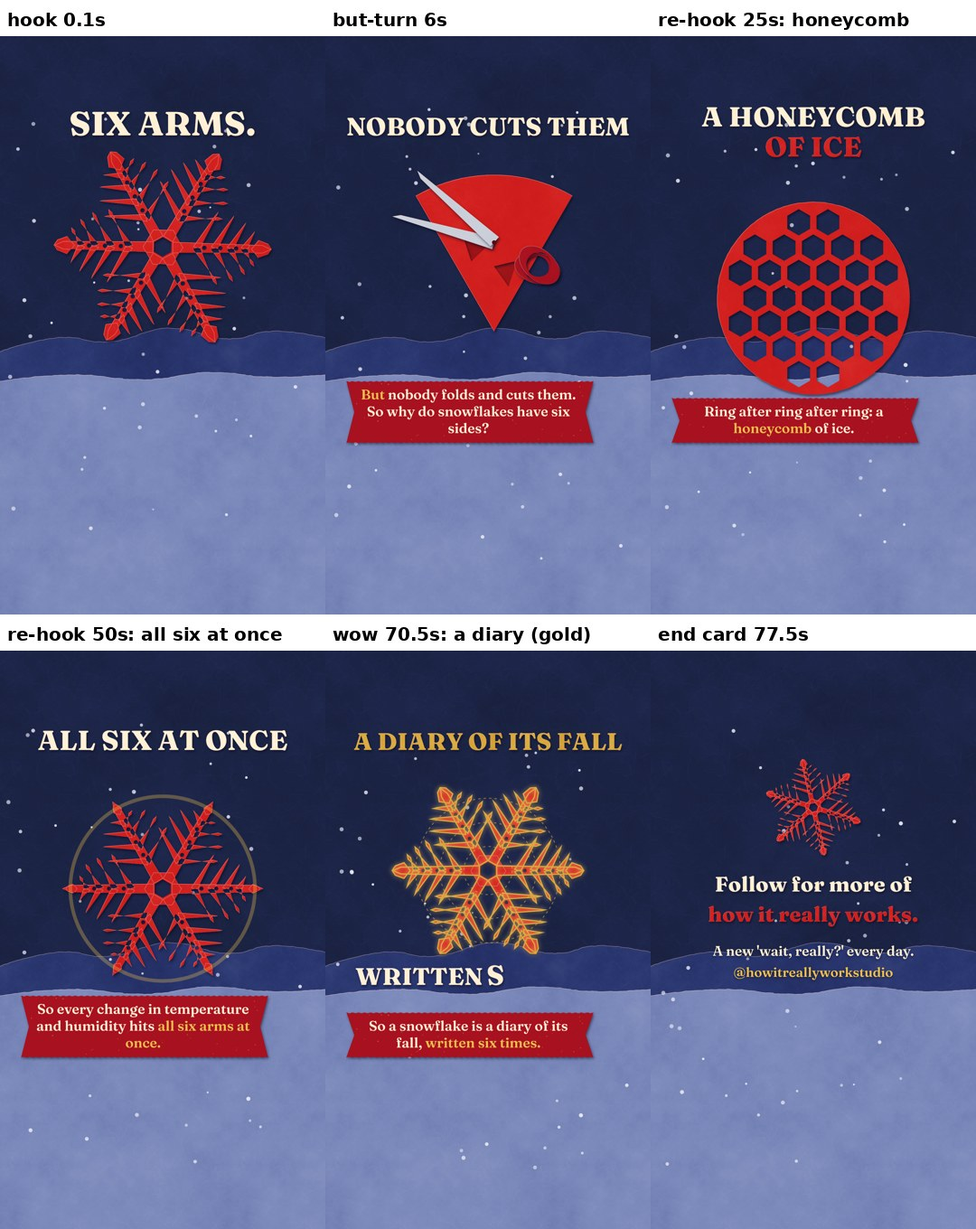
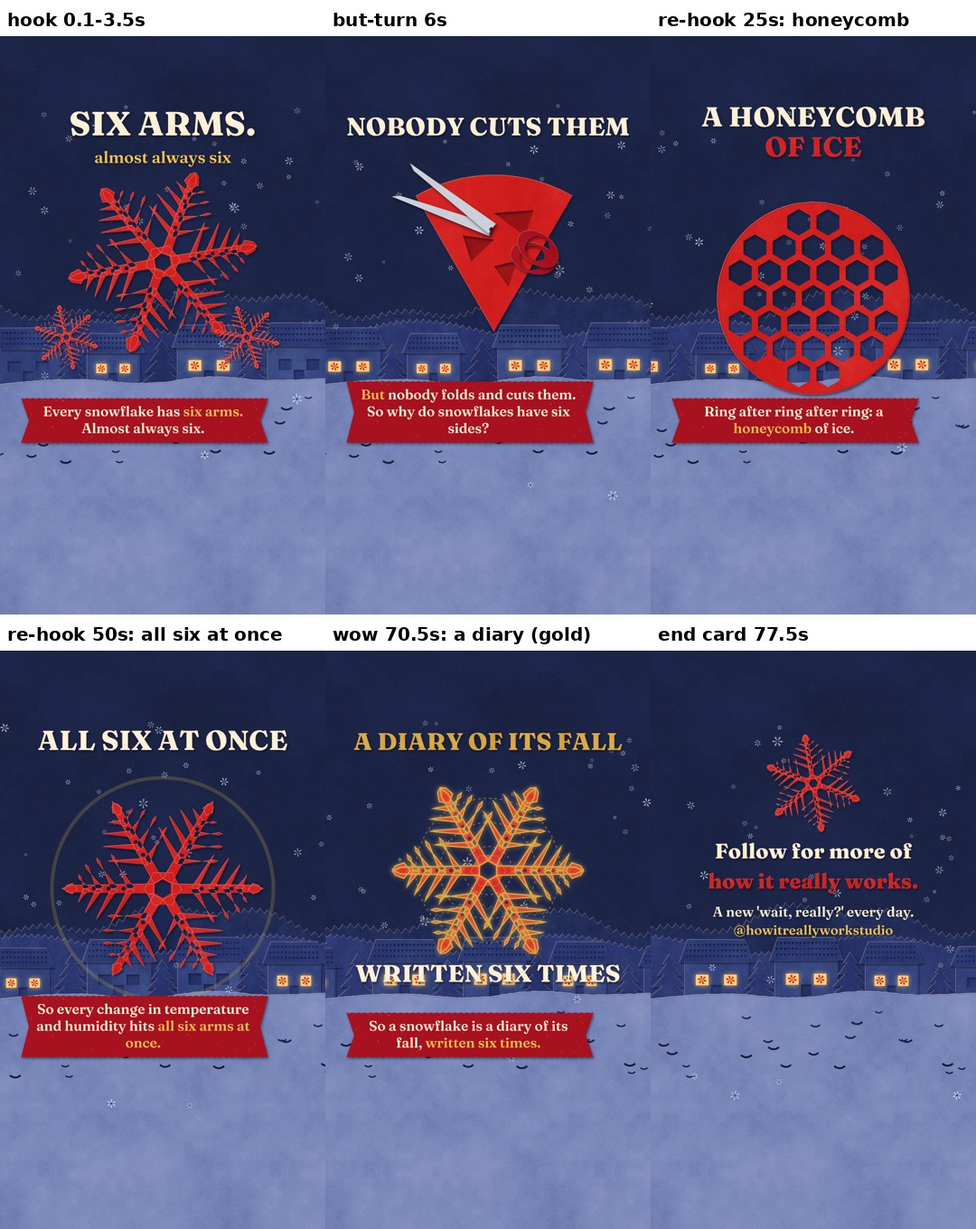
snowflake: demo layering (sawtooth hills, cut-paper village, crescent snow, parallax flakes, insets), accurate hook; runnynose: body sends extra blood, WHY THE DRIP? hook caption, crayon fillers
Claude-Session: https://claude.ai/code/session_01BPYB3nfqh6HEjZ42pf9qga

diff --git a/reels/t_snowflake.js b/reels/t_snowflake.js
@@ -23,7 +23,9 @@ function paper(pathFn, col, o = {}) {      // draw one paper piece (pathFn build
   Lg.beginPath(); pathFn(Lg); Lg.fillStyle = col; Lg.fill(o.rule || 'nonzero');
   // grain: soft-light, clipped to the piece so empty canvas stays empty
   GR.setTransform(new DOMMatrix([1, 0, 0, 1, (o.seed || 0) * 131 % 768, (o.seed || 0) * 71 % 768]));
-  Lg.save(); Lg.beginPath(); pathFn(Lg); Lg.clip(o.rule || 'nonzero'); Lg.globalCompositeOperation = 'soft-light'; Lg.globalAlpha = .7; Lg.fillStyle = GR; Lg.fillRect(0, 0, W, H); Lg.restore();
+  Lg.save(); Lg.beginPath(); pathFn(Lg); Lg.clip(o.rule || 'nonzero'); Lg.globalCompositeOperation = 'soft-light'; Lg.globalAlpha = 1; Lg.fillStyle = GR; Lg.fillRect(0, 0, W, H); Lg.restore();
+  if (o.inset) { const [ins, gap] = o.inset; Lg.save(); Lg.beginPath(); pathFn(Lg); Lg.clip(o.rule || 'nonzero'); Lg.lineJoin = 'round'; Lg.globalCompositeOperation = 'destination-out'; Lg.lineWidth = 2 * (ins + gap); Lg.beginPath(); pathFn(Lg); Lg.stroke();
+    Lg.globalCompositeOperation = 'source-over'; Lg.strokeStyle = col; Lg.lineWidth = 2 * ins; Lg.beginPath(); pathFn(Lg); Lg.stroke(); Lg.restore(); }
   if (o.holes) { Lg.globalCompositeOperation = 'destination-out'; Lg.beginPath(); o.holes(Lg); Lg.fillStyle = '#000'; Lg.fill(); }
   // cut-edge rim: a light line up-left, a dark line down-right
   Lg.globalCompositeOperation = 'source-atop'; Lg.lineWidth = 2; Lg.strokeStyle = 'rgba(255,200,180,.35)'; Lg.save(); Lg.translate(1, 1); Lg.beginPath(); pathFn(Lg); Lg.stroke(); Lg.restore();
@@ -61,13 +63,39 @@ function flake(x, y, R, o = {}) {   // o: n arms, grow, rot, col, plate, seed, a
 }
 
 // ---------- background: night-indigo paper, far hills, a snow bank, stepping paper snow ----------
+// ---------- background (demo layering): night paper, two sawtooth hill layers, a cut-paper village row (tiled roofs cut as sawtooth
+// rows, glowing windows with tiny red rosettes, pines), a snow layer with crescent cuts, paper flakes on three depths; each layer pans
+// at its own rate (parallax), and the lit windows change from scene to scene ----------
+const SAW = (x0, x1, yf, h, sp) => { const o = []; for (let x = x0, i = 0; x <= x1; x += sp / 2, i++) o.push([x, yf(x) - (i % 2) * h]); return o; };
+function house(x, base, w, h, k, lit) { const roofH = h * .55, top = base - h;
+  paper(q => { q.rect(x, top, w, h); }, '#35457f', { seed: 200 + k, shadow: .7, inset: [3, 1.4], holes: q => { if (!lit) { q.rect(x + w * .18, top + h * .3, w * .2, h * .26); q.rect(x + w * .62, top + h * .3, w * .2, h * .26); } q.rect(x + w * .42, top + h * .55, w * .16, h * .45); } });
+  if (lit) for (const fx of [.18, .62]) { const wx = x + w * fx, wy = top + h * .3, ww = w * .2, wh = h * .26; g.save(); g.fillStyle = '#ffcf7a'; g.shadowColor = 'rgba(255,190,110,.8)'; g.shadowBlur = 18; g.fillRect(wx, wy, ww, wh); g.restore();
+    g.fillStyle = PAL.red; g.beginPath(); for (let j = 0; j < 6; j++) { const a = j * TAU / 6, cx = wx + ww / 2, cy = wy + wh / 2; g.moveTo(cx, cy); g.arc(cx, cy, Math.min(ww, wh) * .38, a, a + .5); } g.fill(); }
+  const roof = [[x - 18, top], [x + w + 18, top], [x + w - 10, top - roofH], [x + 10, top - roofH]];
+  paper(poly(wob(roof.concat([roof[0]]), .6, 210 + k)), '#2c3a74', { seed: 211 + k, shadow: .8, holes: q => { for (let r2 = 1; r2 <= 3; r2++) { const yy = top - roofH * r2 / 4; for (let xx = x + 4; xx < x + w - 4; xx += 13) { q.moveTo(xx, yy - 3); q.lineTo(xx + 9, yy - 3); q.lineTo(xx + 4.5, yy + 6); q.closePath(); } } } }); }
+function pine(x, base, h, k) { const pts = [[x, base - h]]; for (let j = 1; j <= 4; j++) { const y = base - h + h * j / 4.4, wdt = h * .1 * j + 8; pts.push([x + wdt, y], [x + wdt * .45, y - 4]); } const L2 = pts.slice(1).map(([a, b]) => [2 * x - a, b]).reverse();
+  paper(poly(wob(pts.concat([[x + 10, base], [x - 10, base]], L2), .5, 230 + k)), '#28346c', { seed: 231 + k, shadow: .7 }); }
+function flakeDot(x, y, r, a = 1) { g.save(); g.globalAlpha = a; g.fillStyle = SNOW; g.beginPath(); for (let j = 0; j < 6; j++) { const an = j * TAU / 6 + x * .01; g.moveTo(x, y); g.lineTo(x + Math.cos(an - .18) * r, y + Math.sin(an - .18) * r); g.lineTo(x + Math.cos(an) * r * 1.2, y + Math.sin(an) * r * 1.2); g.lineTo(x + Math.cos(an + .18) * r, y + Math.sin(an + .18) * r); g.closePath(); } g.fill();
+  g.fillStyle = '#1c2446'; g.beginPath(); g.arc(x, y, r * .28, 0, TAU); g.fill(); g.restore(); }
+function snowLayer(t, depth, n, size, seed) { const q = step(t); for (let i = 0; i < n; i++) { const sp = (28 + 30 * rnd(i, seed)) * depth, y = 230 + ((rnd(i, seed + 1) * 1300 + q * sp * 2) % 1300), x = ((rnd(i, seed + 2) * 1200 - q * 6 * depth + 18 * Math.sin(q * .9 + i)) % 1200 + 1200) % 1200 - 60;
+  flakeDot(x, y, size * (.7 + .5 * rnd(i, seed + 3)), .5 + .45 * rnd(i, seed + 4)); } }
+let SCENE = 0;
 function ground(t, tint = 0) { g.setTransform(1, 0, 0, 1, 0, 0); fillPaper(g, 'indigo', 0, 0, W, H);
   if (tint) { g.fillStyle = `rgba(120,40,60,${tint})`; g.fillRect(0, 0, W, H); }
-  paper(poly(wob(curve([[-40, 1060], [180, 980], [360, 1030], [560, 950], [760, 1020], [920, 960], [1120, 1010]], false, 6), 1.2, 3).concat([[1120, 1240], [-40, 1240]])), '#29356e', { shadow: .6, seed: 4 });
-  paper(poly(wob(curve([[-40, 1150], [220, 1110], [480, 1150], [700, 1105], [900, 1140], [1120, 1120]], false, 6), 1.2, 5).concat([[1120, 1960], [-40, 1960]])), '#7a88ba', { shadow: .8, seed: 6 });
-  const q = step(t); g.fillStyle = SNOW;
-  for (let i = 0; i < 40; i++) { const sp = 50 + 60 * rnd(i, 2), y = 240 + ((rnd(i, 3) * 1500 + q * sp) % 1500), x = 30 + rnd(i, 4) * 1020 + 14 * Math.sin(q * 1.1 + i), r = 3 + 4 * rnd(i, 5);
-    g.globalAlpha = .55 + .4 * rnd(i, 6); g.beginPath(); g.arc(x, y, r, 0, TAU); g.fill(); } g.globalAlpha = 1; }
+  const pan = t * 9;
+  snowLayer(t, .45, 26, 7, 11);                                                                              // far flakes
+  const p1 = pan * .3, p2 = pan * .55, p3 = pan * 1;
+  paper(poly(wob(SAW(-60, 1140, x => 900 + 40 * Math.sin((x + p1) * .006) + 20 * Math.sin((x + p1) * .017), 16, 26), .6, 3).concat([[1140, 1300], [-60, 1300]])), '#1f2a55', { seed: 4, shadow: .5 });
+  paper(poly(wob(SAW(-60, 1140, x => 980 + 30 * Math.sin((x + p2) * .008 + 2), 12, 22), .6, 5).concat([[1140, 1300], [-60, 1300]])), '#29356e', { seed: 5, shadow: .6 });
+  // village row (repeats along an endless street; house k = index along the street)
+  const sp = 300, base = 1172, i0 = Math.floor((p2 * 1.3 - 200) / sp);
+  for (let i = i0; i < i0 + 6; i++) { const x = i * sp - p2 * 1.3, k = ((i % 97) + 97) % 97, w = 170 + 50 * rnd(k, 1), h = 110 + 60 * rnd(k, 2);
+    pine(x - 40, base, 120 + 60 * rnd(k, 3), k); house(x + 10, base, w, h, k, rnd(k, 5 + SCENE) > .35); }
+  snowLayer(t, .8, 18, 10, 23);                                                                              // middle flakes
+  paper(poly(wob(curve([[-40, 1160], [220, 1128], [480, 1160], [700, 1122], [900, 1150], [1120, 1132]], false, 6), 1.2, 6).concat([[1120, 1960], [-40, 1960]])), '#7a88ba', { seed: 6, shadow: 1, inset: [3, 1.4],
+    holes: q => { for (let i = 0; i < 26; i++) { const x = ((rnd(i, 31) * 1300 - p3 * .4) % 1300 + 1300) % 1300 - 110, y = 1200 + rnd(i, 32) * 230, r = 18 + 10 * rnd(i, 33); const pts = []; for (let j = 0; j <= 10; j++) { const a = .25 * Math.PI + .5 * Math.PI * j / 10; pts.push([x + Math.cos(a) * r, y - r + Math.sin(a) * r]); } for (let j = 10; j >= 0; j--) { const a = .25 * Math.PI + .5 * Math.PI * j / 10; pts.push([x + Math.cos(a) * r * .8, y - r * 1.04 + Math.sin(a) * r * .82]); } trace(q, pts); } } });
+  snowLayer(t, 1.2, 10, 13, 37);                                                                             // near flakes
+}
 
 // ---------- cut-out titles: letters pop in one per 12 fps step ----------
 function title(str, x, y, size, k, col = PAL.red, o = {}) { if (k < 0) return; const q = step(k), shown = Math.floor(q * 24) + 1; g.save(); g.setTransform(1, 0, 0, 1, 0, 0);
@@ -84,7 +112,7 @@ function tag(str, x, y, k, col = PAL.red, txt = CREAM, w = 210) { const u = popK
 // ---------- molecules (cut paper), hydrogen bonds (rows of slits) ----------
 function molecule(x, y, r, ang = 0, k = 1, seed = 1) { const u = popK(k); if (u <= 0) return; const R = r * u, hr = R * .56, d = R * 1.05, a1 = ang + Math.PI / 2 - .91, a2 = ang + Math.PI / 2 + .91;
   paper(q => { trace(q, circ(x, y, R, seed)); trace(q, circ(x + Math.cos(a1) * d, y + Math.sin(a1) * d, hr, seed + 1)); trace(q, circ(x + Math.cos(a2) * d, y + Math.sin(a2) * d, hr, seed + 2)); }, PAL.red,
-    { seed, holes: q => { const rr = R * .5; q.moveTo(x + rr, y); for (let i = 0; i <= 24; i++) { const a = i / 24 * TAU; q.lineTo(x + Math.cos(a) * rr * (1 + .08 * Math.cos(a * 6)), y + Math.sin(a) * rr * (1 + .08 * Math.cos(a * 6))); } } });
+    { seed, inset: [3, 1.3], holes: q => { const rr = R * .5; q.moveTo(x + rr, y); for (let i = 0; i <= 24; i++) { const a = i / 24 * TAU; q.lineTo(x + Math.cos(a) * rr * (1 + .08 * Math.cos(a * 6)), y + Math.sin(a) * rr * (1 + .08 * Math.cos(a * 6))); } } });
   return [[x + Math.cos(a1) * d, y + Math.sin(a1) * d], [x + Math.cos(a2) * d, y + Math.sin(a2) * d]]; }
 function bond(x0, y0, x1, y1, k) { const u = clamp(step(k) * 3); if (u <= 0) return; const n = 6, L = Math.hypot(x1 - x0, y1 - y0), ax = (x1 - x0) / L, ay = (y1 - y0) / L;
   paper(q => { for (let i = 0; i < Math.round(n * u); i++) { const f = (i + .5) / n, cx = x0 + ax * L * f, cy = y0 + ay * L * f, hl = L / n * .32, hw = 6; q.moveTo(cx - ax * hl - ay * hw, cy - ay * hl + ax * hw); q.lineTo(cx + ax * hl - ay * hw, cy + ay * hl + ax * hw); q.lineTo(cx + ax * hl + ay * hw, cy + ay * hl - ax * hw); q.lineTo(cx - ax * hl + ay * hw, cy - ay * hl - ax * hw); q.closePath(); } }, PALE, { seed: 30, shadow: .5 }); }
@@ -103,7 +131,7 @@ function cloudPiece(x, y, w, col = '#3a4a8c', seed = 1) { const pts = []; for (l
   paper(poly(wob(pts.concat([[x + w / 2, y + 18], [x - w / 2, y + 18]]), .9, seed)), col, { seed, shadow: .8, holes: q => { for (let j = 0; j < 3; j++) { const cx = x - w * .25 + j * w * .25, cy = y - w * .06; for (let m = 0; m < 14; m++) { const a = Math.PI * (1 + m / 13), r = w * .07; m ? q.lineTo(cx + Math.cos(a) * r, cy + Math.sin(a) * r) : q.moveTo(cx + Math.cos(a) * r, cy + Math.sin(a) * r); } for (let m = 13; m >= 0; m--) { const a = Math.PI * (1 + m / 13), r = w * .055; q.lineTo(cx + Math.cos(a) * r, cy + Math.sin(a) * r + 2); } q.closePath(); } } }); }
 function mitten(x, y, s = 1) { const P = [[-110, 140], [-120, -40], [-90, -150], [-10, -190], [80, -150], [110, -50], [105, 140]].map(([a, b]) => [x + a * s, y + b * s]);
   const th = [[-100, 0], [-190, -40], [-210, -110], [-170, -140], [-110, -90]].map(([a, b]) => [x + a * s, y + b * s]);
-  paper(q => { trace(q, wob(curve(P, true, 4), .8, 60)); trace(q, wob(curve(th, true, 4), .8, 61)); }, PAL.red, { seed: 62 });
+  paper(q => { trace(q, wob(curve(P, true, 4), .8, 60)); trace(q, wob(curve(th, true, 4), .8, 61)); }, PAL.red, { seed: 62, inset: [4, 1.6] });
   const cuff = [[-125, 120], [120, 120], [120, 230], [-125, 230]].map(([a, b]) => [x + a * s, y + b * s]); const saw = []; for (let i = 0; i <= 18; i++) saw.push([x + (-125 + i * 245 / 18) * s, y + (230 + (i % 2) * 18) * s]);
   paper(q => { trace(q, [cuff[0], cuff[1], ...saw.reverse()]); }, DEEP, { seed: 63, holes: q => { for (let i = 0; i < 7; i++) { const cx = x + (-95 + i * 32) * s, cy = y + 175 * s; q.moveTo(cx + 9, cy); q.arc(cx, cy, 9, 0, TAU); } } }); }
 function cross(x, y, r, k) { const u = clamp(step(k) * 4); if (u <= 0) return; g.save(); g.strokeStyle = CREAM; g.lineWidth = 14; g.lineCap = 'round'; g.globalAlpha = .95; g.shadowColor = 'rgba(8,10,30,.6)'; g.shadowBlur = 6;
@@ -112,7 +140,7 @@ function thermoStrip(x0, x1, y, k, mark) { paper(poly(wob([[x0, y - 26], [x1, y 
   paper(q => { const xm = lerp(x0 + 20, x1 - 20, mark); q.rect(x0 + 16, y - 10, xm - x0 - 16, 20); }, '#3d8fd1', { seed: 72, shadow: .3 }); }
 function hexRing(cx, cy, r, k, rot = Math.PI / 6) { const V = hexPts(cx, cy, r, rot); V.forEach((p, i) => { const q = V[(i + 1) % 6]; bond(p[0], p[1], q[0], q[1], k - .3 - i * .08); }); V.forEach(([x, y], i) => molecule(x, y, 34, Math.atan2(y - cy, x - cx) - Math.PI / 2, k - i * .08, 80 + i)); return V; }
 function honeycomb(k, cx = CX, cy = 870) { const u = eo(k / 1.4); if (u <= 0) return; const r = 56, RR = 120 + 200 * u;
-  paper(q => trace(q, circ(cx, cy, RR, 90)), PAL.red, { seed: 91, holes: q => { const dx = r * Math.sqrt(3), dy = r * 1.5; for (let j = -6; j <= 6; j++) for (let i = -6; i <= 6; i++) { const x = cx + i * dx + (j % 2 ? dx / 2 : 0), y = cy + j * dy; if (Math.hypot(x - cx, y - cy) > RR - r * .9) continue; trace(q, hexPts(x, y, r * .78, Math.PI / 6)); } } }); }
+  paper(q => trace(q, circ(cx, cy, RR, 90)), PAL.red, { seed: 91, inset: [4, 1.6], holes: q => { const dx = r * Math.sqrt(3), dy = r * 1.5; for (let j = -6; j <= 6; j++) for (let i = -6; i <= 6; i++) { const x = cx + i * dx + (j % 2 ? dx / 2 : 0), y = cy + j * dy; if (Math.hypot(x - cx, y - cy) > RR - r * .9) continue; trace(q, hexPts(x, y, r * .78, Math.PI / 6)); } } }); }
 function prism(cx, cy, r, h, k) { const u = popK(k); if (u <= 0) return; const R = r * u, top = hexPts(cx, cy, R, 0).map(([x, y]) => [x, cy + (y - cy) * .5]);
   for (const [i, col] of [[0, '#8f1019'], [1, '#a8111f'], [2, '#b81a1d']]) { const a = top[i], b = top[i + 1]; paper(poly([a, b, [b[0], b[1] + h * u], [a[0], a[1] + h * u]]), col, { seed: 100 + i, shadow: i === 1 ? 1 : 0 }); }
   paper(poly(wob(top.concat([top[0]]), .5, 104)), PAL.red, { seed: 105, shadow: 0, holes: q => trace(q, hexPts(cx, cy, R * .45, 0).map(([x, y]) => [x, cy + (y - cy) * .5])) }); }
@@ -134,8 +162,8 @@ function banner(i, t) { const p = PH[i]; if (!p) return; const lt = t - (p.start
 // ---------- scenes ----------
 const r = (i, d = 0) => s(i) + d, L = (i, t) => t - s(i);
 const SC = [];
-SC[0] = (t) => { const lt = t; flake(CX, 700, 330, { rot: step(t) * .25, seed: 1 }); title('SIX ARMS.', CX, 330, 112, -1, PAL.red); title('SIX ARMS.', CX, 330, 112, 1, CREAM);
-  if (lt > 2.0) { flake(250, 1010, 115, { n: 5, seed: 7, rot: .3, shadow: .6 }); cross(250, 1010, 95, lt - 2.4); } if (lt > 2.9) { flake(760, 1010, 115, { n: 8, seed: 8, rot: .2, shadow: .6 }); cross(760, 1010, 95, lt - 3.3); } };
+SC[0] = (t) => { const lt = t; flake(CX, 750, 290, { rot: step(t) * .25, seed: 1 }); title('SIX ARMS.', CX, 330, 112, -1, PAL.red); title('SIX ARMS.', CX, 330, 112, 1, CREAM);
+  if (lt > 1.9) flake(220, 1000, 100 * popK(lt - 1.9), { seed: 7, rot: .3, shadow: .8 }); if (lt > 2.6) flake(820, 1000, 100 * popK(lt - 2.6), { seed: 8, rot: .2, shadow: .8 }); if (lt > 3.0) label('almost always six', CX, 405, 54, lt - 3.0, '#f2c14e'); };
 SC[1] = (t) => { const lt = L(1, t), cu = clamp((lt - .3) / 2.6); wedge(560, 980, 520, -Math.PI / 2 - Math.PI / 6, -Math.PI / 2 + Math.PI / 6, cu);
   const p = lerp(.25, .85, cu), sx = 560 + Math.cos(-Math.PI / 2 - .2) * 520 * p, sy = 980 + Math.sin(-Math.PI / 2 - .2) * 520 * p; scissors(sx + 60, sy, Math.PI + .5, .3 + .25 * Math.abs(Math.sin(step(lt) * 9)));
   title('NOBODY CUTS THEM', CX, 330, 84, lt - .2, CREAM); if (lt > 2.6) title('SO WHY SIX?', CX, 1110, 96, lt - 2.6, PAL.red); };
@@ -175,17 +203,17 @@ SC[14] = (t) => { const lt = L(14, t); const X = [230, 520, 790]; X.forEach((x, 
     g.save(); g.fillStyle = 'rgba(233,236,248,.6)'; pts.forEach(([px, py], i) => { if (i % 2) return; g.beginPath(); g.arc(px, py, 5, 0, TAU); g.fill(); }); g.restore();
     const f = clamp((lt - .3 - j * .3) / 3), idx = Math.min(30, Math.floor(f * 30)), [px, py] = pts[idx]; flake(px, py, lerp(24, 92, f), { seed: 20 + j * 7, grow: lerp(.3, 1, f), style: j === 1 ? 'plain' : 'stellar', rot: j * .4 }); });
   title('NO TWO ALIKE', CX, 330, 104, lt - 2.4, PAL.red); };
-SC[15] = (t) => { const lt = L(15, t), gk = ss(.4, 1.8, lt); ground(t, .0); flake(CX, 730, 290, { seed: 2, gold: gk });
+SC[15] = (t) => { const lt = L(15, t), gk = ss(.4, 1.8, lt); flake(CX, 730, 290, { seed: 2, gold: gk });
   for (let j = 1; j <= 3; j++) { g.save(); g.strokeStyle = `rgba(242,193,78,${.5 * gk})`; g.lineWidth = 3; g.setLineDash([8, 10]); g.beginPath(); g.arc(CX, 730, 80 * j, 0, TAU); g.stroke(); g.restore(); }
-  title('A DIARY OF ITS FALL', CX, 330, 80, lt - .3, GOLD); title('WRITTEN SIX TIMES', CX, 1110, 80, lt - 1.8, CREAM); };
+  title('A DIARY OF ITS FALL', CX, 330, 80, lt - .3, GOLD); title('WRITTEN SIX TIMES', CX, 1100, 80, lt - .9, CREAM); };
 SC[16] = (t) => { const lt = L(16, t); mitten(380, 760, 1.5); flake(400, 650, 90, { seed: 9, col: '#f4ecd8', shadow: .7 }); title('ON YOUR MITTEN?', CX, 330, 88, lt - .2, CREAM);
   tag('YES', 800, 640, lt - 1.1, PAL.red, CREAM); tag('NO', 800, 820, lt - 1.3, '#f4ecd8', DEEP); };
-SC[17] = (t) => { const lt = L(17, t); flake(CX, 520, 150, { seed: 2, rot: step(lt) * .12 }); title('Follow for more of', CX, 800, 70, lt - .1, CREAM); title('how it really works.', CX, 900, 70, lt - .4, PAL.red);
-  label("A new 'wait, really?' every day.", CX, 1000, 46, lt - .8); label('@howitreallyworkstudio', CX, 1070, 44, lt - 1.0, '#f2c14e'); };
+SC[17] = (t) => { const lt = L(17, t); flake(CX, 440, 150, { seed: 2, rot: step(lt) * .12 }); title('Follow for more of', CX, 690, 70, lt - .1, CREAM); title('how it really works.', CX, 790, 70, lt - .4, PAL.red);
+  label("A new 'wait, really?' every day.", CX, 870, 46, lt - .8); label('@howitreallyworkstudio', CX, 930, 44, lt - 1.0, '#f2c14e'); };
 
 const START = PH.map(p => p.start); START[0] = 0;
 function sceneAt(t) { let k = 0; for (let i = 0; i < SC.length; i++) if (t >= START[i] - .2) k = i; return k; }
-function draw(t) { const k = sceneAt(t); ground(t); g.setTransform(1, 0, 0, 1, 0, 0); SC[k](t); if (k < PH.length - 1) banner(k, t); }
+function draw(t) { const k = sceneAt(t); SCENE = k; ground(t); g.setTransform(1, 0, 0, 1, 0, 0); SC[k](t); if (k < PH.length - 1) banner(k, t); }
 
 // frame 0 snapshot for the loop ending (dissolves in at most 40% in the last 0.5 s)
 const F0 = document.createElement('canvas'); F0.width = W; F0.height = H; { const keep = g; g = F0.getContext('2d'); draw(0); g = keep; }

diff --git a/reels/t_runnynose.js b/reels/t_runnynose.js
@@ -35,6 +35,14 @@ function snowWax(n = 40, y0 = 250, y1 = 1150, t = 0) { for (let i = 0; i < n; i+
 function ground(d = 1, col = K.white) { const top = []; for (let x = -20; x <= 1100; x += 40) top.push([x, 1150 + 18 * Math.sin(x * .008 + 1) + 8 * Math.sin(x * .03)]);
   L(top, { seed: 40, draw: d, p: .7, w: 6 }); F(top.concat([[1100, 1440], [-20, 1440]]), '#b9c7e6', { seed: 41, p: .36, gap: 13, w: 12, ang: .2 }); }
 
+// ---------- page fillers (the book's own doodles): a crayon sled + little pines on a snow drift, right of the badge strip ----------
+function fillers(t) { const s0 = CAM.s, x0 = CAM.x, y0 = CAM.y; CAM.s = 1; CAM.x = 540; CAM.y = 960;
+  L(smooth([[470, 1440], [560, 1392], [680, 1402], [800, 1385], [900, 1412]], 4, false), { seed: 900, w: 6, p: .7 }); F([[470, 1440], [560, 1392], [680, 1402], [800, 1385], [900, 1412], [900, 1440]], K.white, { seed: 901, p: .9, gap: 6, w: 8 });
+  const bob = Math.floor(t * 4) % 2 * 3; F([[600, 1380 - bob], [760, 1380 - bob], [740, 1405 - bob], [610, 1405 - bob]], K.red, { seed: 902, p: .8, gap: 6, w: 8 }); L([[600, 1380 - bob], [760, 1380 - bob], [740, 1405 - bob], [610, 1405 - bob], [600, 1380 - bob]], { seed: 903, w: 5 });
+  L([[590, 1418 - bob], [770, 1418 - bob], [790, 1400 - bob]], { seed: 904, w: 5, col: K.brown }); L([[620, 1405 - bob], [620, 1418 - bob]], { seed: 905, w: 4 }); L([[730, 1405 - bob], [730, 1418 - bob]], { seed: 906, w: 4 });
+  for (const [x, h, sd] of [[830, 70, 0], [875, 52, 1]]) { const tr = [[x, 1395 - h], [x + 26, 1395], [x - 26, 1395]]; F(tr, K.green, { seed: 910 + sd, p: .8, gap: 6, w: 8 }); L([...tr, tr[0]], { seed: 912 + sd, w: 5 }); }
+  CAM.s = s0; CAM.x = x0; CAM.y = y0; }
+
 // ---------- the kid (front view): beanie + pompom, big round nose, striped scarf, coat, mittens ----------
 function kid(cx, cy, sc, o = {}) { const C = KID, P = pts => pts.map(([x, y]) => [cx + x * sc, cy + y * sc]), sd = 100, d = o.draw ?? 1;
   const lo = (seed, ex = {}) => ({ w: 7, seed, draw: clamp(d * 1.3), ...ex });
@@ -85,7 +93,7 @@ function washSky(d, y1 = 1120, box = null) { if (d <= 0) return; const g = WASH.
 // ---------- scenes ----------
 const SC = [];
 const r = (i, d = 0) => s(i) + d;
-SC[0] = (t, lt) => { washSky(1); snowWax(36, 250, 1120, t); ground(); const k = kid(CX, 700, 1.15); dripCycle(k.nostril[0], k.nostril[1], t, 2.4, 1); title('drip.', 330, 1, { x: 800, col: K.red, size: 140 }); };
+SC[0] = (t, lt) => { washSky(1); snowWax(36, 250, 1120, t); ground(); const k = kid(CX, 700, 1.15); dripCycle(k.nostril[0], k.nostril[1], t, 2.4, 1); title('WHY THE DRIP?', 300, 1, { col: K.red, size: 118 }); note('drip.', 850, 760, 1, { col: K.red, size: 64 }); };
 SC[1] = (t, lt) => { washSky(1); ground(); kid(330, 720, .95, { smile: true }); const d = pr(lt, 0, .8);
   shape([[700, 500], [740, 500], [740, 900], [700, 900]], K.white, 300, d); dab(BG.f, 720, 930, 40, { col: K.red, p: .9, seed: 302 }); L(handCircle(720, 930, 42, 3, .1, 24), { seed: 303, draw: d }); L([[700, 760], [740, 760]], { seed: 304, w: 5, draw: d });
   note('not sick!', 860, 700, lt - .8, { size: 62 }); L([[820, 760], [860, 810], [960, 700]], { col: K.green, w: 12, seed: 305, draw: pr(lt, 1, 1.4) }); title('so WHY?', 300, lt - 2.2, { col: K.red, size: 120 }); };
@@ -101,9 +109,9 @@ SC[5] = (t, lt) => { profile(1); const blink = Math.floor(t * 6) % 2; title('NER
   for (let j = 0; j < 5; j++) { const x = 480 - j * 40, y = 690 + (j % 2) * 30; L([[x, y], [x - 12, y - 30], [x + 8, y - 44], [x - 6, y - 74]], { col: K.yellow, w: 8, seed: 370 + j, draw: pr(lt, .4 + j * .15, .8 + j * .15) }); }
   const bx = 820, by = 700; shape(smooth([[bx - 70, by + 50], [bx - 60, by - 40], [bx, by - 80], [bx + 60, by - 40], [bx + 70, by + 50]], 4), K.yellow, 380, pr(lt, .8, 1.5)); dab(BG.f, bx, by + 66, 16, { col: K.ink, p: .9, seed: 383 });
   if (lt > 1.5) for (let j = 0; j < 3; j++) L([[bx + 90 + j * 6, by - 60 + j * 40], [bx + 130 + j * 10 + blink * 8, by - 70 + j * 46]], { seed: 384 + j, w: 6, fx: true }); arrow(760, 820, 520, 760, K.ink, 390, pr(lt, 1.8, 2.4), -.2); note('to the brain', 820, 900, lt - 2.4); };
-SC[6] = (t, lt) => { profile(1); const bx = 340, by = 500; shape(smooth([[bx - 120, by + 40], [bx - 130, by - 50], [bx - 60, by - 110], [bx + 40, by - 115], [bx + 120, by - 60], [bx + 130, by + 30], [bx + 40, by + 60], [bx - 60, by + 60]], 5), K.pink, 400, pr(lt, 0, .6), { p: .55 });
-  for (let j = 0; j < 3; j++) L(smooth([[bx - 60 + j * 50, by - 70], [bx - 40 + j * 50, by - 20], [bx - 70 + j * 50, by + 20]], 4, false), { seed: 403 + j, w: 5, draw: pr(lt, .3, .8) });
-  for (let j = 0; j < 3; j++) L(smooth([[430, 560 + j * 20], [480 + j * 20, 640 + j * 30], [520, 720 + j * 20], [560, 770]], 4, false), { col: K.red, w: 9, seed: 410 + j, draw: pr(lt, .6 + j * .2, 1.3 + j * .2) });
+SC[6] = (t, lt) => { profile(1); const wd = 6 + 10 * pr(lt, .6, 2.2);
+  for (let j = 0; j < 4; j++) L(smooth([[300, 700 + j * 22], [380, 640 + j * 26], [460, 650 + j * 30], [520, 720 + j * 18], [570, 770]], 4, false), { col: K.red, w: wd, seed: 410 + j, draw: pr(lt, .2 + j * .15, .9 + j * .15) });
+  note('vessels widen', 800, 880, lt - 1.4, { col: K.red, size: 54 }); arrow(760, 850, 560, 740, K.red, 415, pr(lt, 1.6, 2.1), .15);
   title('EXTRA BLOOD', 300, lt - .2, { x: 720, size: 84, col: K.red }); note('= warmer air', 790, 400, lt - 1.2, { col: K.orange }); };
 SC[7] = (t, lt) => { profile(1); for (let j = 0; j < 4; j++) { const x = 330 + j * 50, y = 640 + (j % 2) * 6; shape([[x - 18, y - 30], [x + 18, y - 30], [x + 12, y], [x - 12, y]], K.violet, 420 + j * 3, pr(lt, .2 + j * .2, .6 + j * .2));
     const ph = (t * 1.4 + j * .3) % 1; if (lt > .8) drop(x, y + 20 + ph * 70, 9 + 3 * ph, 440 + j); }
@@ -151,7 +159,8 @@ let F0 = null;
 const CAMS = { 2: [540, 960, 1], 3: [600, 930, 1.04], 5: [500, 900, 1.18], 6: [470, 860, 1.12], 7: [460, 880, 1.3] };
 function draw(t) { BOIL.step = Math.floor(t * 12 + 1e-6); BOIL.amp = 1;
   clearGroup(KID); [BG.f, BG.l, FX, WASH, SUBK, SUBT].forEach(clear);
-  const k = sceneAt(t), lt = k === 0 ? 99 : t - (START[k] - .15), cm = CAMS[k] || [540, 960, 1]; CAM.x = cm[0]; CAM.y = cm[1]; CAM.s = cm[2] * (1 + .012 * Math.min(lt, 5)); SC[k](t, lt); if (k < SC.length - 1) subtitle(t);
+  const k = sceneAt(t), lt = k === 0 ? 99 : t - (START[k] - .15); CAM.x = 540; CAM.y = 960; CAM.s = 1; if (![0, 1, 4, 9, 10].includes(k)) ground(1); fillers(t);
+  const cm = CAMS[k] || [540, 960, 1]; CAM.x = cm[0]; CAM.y = cm[1]; CAM.s = cm[2] * (1 + .012 * Math.min(lt, 5)); SC[k](t, lt); if (k < SC.length - 1) subtitle(t);
   comp.paperCam(CAM.x * .6, CAM.y * .6, CAM.s / .6); comp.begin(); comp.crayon(BG.f.c); comp.crayon(BG.l.c); comp.wash(WASH.c, { color: WASHC }); const go = [hash(BOIL.step) * 300, hash(BOIL.step + 7) * 300];
   comp.group(KID, { goff: go }); comp.crayon(FX.c, { goff: go }); comp.knock(SUBK.c); comp.crayon(SUBT.c);
   const lp = clamp((t - (TOT - .5)) / .5) * .4; if (lp > 0 && F0) { const [c2, g2] = [document.createElement('canvas'), null]; c2.width = W; c2.height = H; const gg = c2.getContext('2d'); gg.globalAlpha = lp; gg.drawImage(F0, 0, 0); comp.image(c2); }

diff --git a/reels/tl_snowflake.js b/reels/tl_snowflake.js
@@ -1,1 +1,1 @@
-window.TL={"total": 78.767, "p": [{"i": 0, "cap": "Every snowflake has **six arms.** Never five. Never eight.", "start": 0.35, "end": 3.893}, {"i": 1, "cap": "**But** nobody folds and cuts them. So why do snowflakes have six sides?", "start": 4.273, "end": 8.643}, {"i": 2, "cap": "It starts with one tiny **water molecule.**", "start": 9.343, "end": 11.502}, {"i": 3, "cap": "One oxygen, two hydrogens, in a **bent** little V.", "start": 12.202, "end": 15.069}, {"i": 4, "cap": "When water freezes, each molecule grabs its neighbors with **hydrogen bonds.**", "start": 15.449, "end": 19.842}, {"i": 5, "cap": "And the shape they lock into is a **ring of six.**", "start": 20.542, "end": 23.022}, {"i": 6, "cap": "Ring after ring after ring: a **honeycomb** of ice.", "start": 23.402, "end": 26.249}, {"i": 7, "cap": "So every snow crystal starts out as a tiny **six-sided prism.**", "start": 26.949, "end": 30.76}, {"i": 8, "cap": "Water vapor in the cloud freezes onto it, and as it grows, branches sprout from its **six corners.**", "start": 31.46, "end": 37.087}, {"i": 9, "cap": "Six corners, **six arms.**", "start": 37.787, "end": 39.313}, {"i": 10, "cap": "Here's the twist: how do the six arms stay **so alike?**", "start": 39.693, "end": 42.614}, {"i": 11, "cap": "They don't talk to each other. They grow at the **same time,** through the **same air.**", "start": 43.314, "end": 47.221}, {"i": 12, "cap": "So every change in temperature and humidity hits **all six arms at once.**", "start": 47.921, "end": 52.289}, {"i": 13, "cap": "Temperature even picks the shape: near minus two Celsius, **thin plates.** Near minus five, **needles.** Near minus fifteen, **big starry flakes.**", "start": 52.989, "end": 61.942}, {"i": 14, "cap": "And no two flakes fall the same path through the clouds, so **no two look exactly alike.**", "start": 62.642, "end": 67.594}, {"i": 15, "cap": "So a snowflake is a diary of its fall, **written six times.**", "start": 68.294, "end": 71.789}, {"i": 16, "cap": "Ever caught one on your mitten? **Yes or no?**", "start": 72.489, "end": 74.542}, {"i": 17, "cap": "Follow for more of **how it really works.**", "start": 74.922, "end": 76.787}]};
+window.TL={"total": 78.399, "p": [{"i": 0, "cap": "Every snowflake has **six arms.** Almost always six.", "start": 0.35, "end": 3.526}, {"i": 1, "cap": "**But** nobody folds and cuts them. So why do snowflakes have six sides?", "start": 3.906, "end": 8.275}, {"i": 2, "cap": "It starts with one tiny **water molecule.**", "start": 8.975, "end": 11.134}, {"i": 3, "cap": "One oxygen, two hydrogens, in a **bent** little V.", "start": 11.834, "end": 14.701}, {"i": 4, "cap": "When water freezes, each molecule grabs its neighbors with **hydrogen bonds.**", "start": 15.081, "end": 19.475}, {"i": 5, "cap": "And the shape they lock into is a **ring of six.**", "start": 20.175, "end": 22.654}, {"i": 6, "cap": "Ring after ring after ring: a **honeycomb** of ice.", "start": 23.034, "end": 25.882}, {"i": 7, "cap": "So every snow crystal starts out as a tiny **six-sided prism.**", "start": 26.582, "end": 30.393}, {"i": 8, "cap": "Water vapor in the cloud freezes onto it, and as it grows, branches sprout from its **six corners.**", "start": 31.093, "end": 36.719}, {"i": 9, "cap": "Six corners, **six arms.**", "start": 37.419, "end": 38.946}, {"i": 10, "cap": "Here's the twist: how do the six arms stay **so alike?**", "start": 39.326, "end": 42.246}, {"i": 11, "cap": "They don't talk to each other. They grow at the **same time,** through the **same air.**", "start": 42.946, "end": 46.854}, {"i": 12, "cap": "So every change in temperature and humidity hits **all six arms at once.**", "start": 47.554, "end": 51.921}, {"i": 13, "cap": "Temperature even picks the shape: near minus two Celsius, **thin plates.** Near minus five, **needles.** Near minus fifteen, **big starry flakes.**", "start": 52.621, "end": 61.574}, {"i": 14, "cap": "And no two flakes fall the same path through the clouds, so **no two look exactly alike.**", "start": 62.274, "end": 67.226}, {"i": 15, "cap": "So a snowflake is a diary of its fall, **written six times.**", "start": 67.926, "end": 71.422}, {"i": 16, "cap": "Ever caught one on your mitten? **Yes or no?**", "start": 72.122, "end": 74.174}, {"i": 17, "cap": "Follow for more of **how it really works.**", "start": 74.554, "end": 76.419}]};

diff --git a/reels/tl_runnynose.js b/reels/tl_runnynose.js
@@ -1,1 +1,1 @@
-window.TL={"total": 71.463, "p": [{"i": 0, "cap": "Step outside on a freezing morning, and your nose starts to... **drip.**", "start": 0.35, "end": 4.036}, {"i": 1, "cap": "**But** you're not sick. So why does your nose run when it's cold?", "start": 4.416, "end": 7.463}, {"i": 2, "cap": "Your nose has a big job: it's the **air conditioner** for your lungs.", "start": 8.163, "end": 11.933}, {"i": 3, "cap": "Every breath gets **warmed up** and made **wet** before it goes down to them.", "start": 12.633, "end": 16.264}, {"i": 4, "cap": "And cold winter air is usually **very dry.**", "start": 16.644, "end": 19.198}, {"i": 5, "cap": "So when freezing, dry air rushes in, **nerves** inside your nose sound the alarm.", "start": 19.898, "end": 24.652}, {"i": 6, "cap": "Your brain sends **extra blood** to warm the air,", "start": 25.352, "end": 27.64}, {"i": 7, "cap": "and tells tiny glands to pump out **more mucus and water.**", "start": 27.78, "end": 30.871}, {"i": 8, "cap": "Here's the twist: your nose often makes **more than it needs.**", "start": 31.571, "end": 34.745}, {"i": 9, "cap": "And the extra **drips** right out the end.", "start": 35.445, "end": 37.267}, {"i": 10, "cap": "There's a **second drip,** too: your warm, wet breath hits the **cold tip** of your nose.", "start": 37.967, "end": 42.416}, {"i": 11, "cap": "Cold air can't hold as much water, so it turns into **little drops,** right there.", "start": 43.116, "end": 47.35}, {"i": 12, "cap": "Like breath **fogging up** a cold window.", "start": 48.05, "end": 50.025}, {"i": 13, "cap": "Doctors even have a name for it: **cold-induced rhinitis.** Some call it **skier's nose.**", "start": 50.725, "end": 55.863}, {"i": 14, "cap": "Somewhere between **half** and **nine out of ten** people get it.", "start": 56.563, "end": 59.523}, {"i": 15, "cap": "So that winter drip isn't a germ. It's your nose **working overtime.**", "start": 60.223, "end": 64.189}, {"i": 16, "cap": "Does your nose run in the cold? **Yes or no?**", "start": 64.889, "end": 67.238}, {"i": 17, "cap": "Follow for more of **how it really works.**", "start": 67.618, "end": 69.483}]};
+window.TL={"total": 71.588, "p": [{"i": 0, "cap": "Step outside on a freezing morning, and your nose starts to... **drip.**", "start": 0.35, "end": 4.036}, {"i": 1, "cap": "**But** you're not sick. So why does your nose run when it's cold?", "start": 4.416, "end": 7.463}, {"i": 2, "cap": "Your nose has a big job: it's the **air conditioner** for your lungs.", "start": 8.163, "end": 11.933}, {"i": 3, "cap": "Every breath gets **warmed up** and made **wet** before it goes down to them.", "start": 12.633, "end": 16.264}, {"i": 4, "cap": "And cold winter air is usually **very dry.**", "start": 16.644, "end": 19.198}, {"i": 5, "cap": "So when freezing, dry air rushes in, **nerves** inside your nose sound the alarm.", "start": 19.898, "end": 24.652}, {"i": 6, "cap": "So your body sends **extra blood** to warm the air,", "start": 25.352, "end": 27.765}, {"i": 7, "cap": "and tells tiny glands to pump out **more mucus and water.**", "start": 27.905, "end": 30.996}, {"i": 8, "cap": "Here's the twist: your nose often makes **more than it needs.**", "start": 31.696, "end": 34.87}, {"i": 9, "cap": "And the extra **drips** right out the end.", "start": 35.57, "end": 37.392}, {"i": 10, "cap": "There's a **second drip,** too: your warm, wet breath hits the **cold tip** of your nose.", "start": 38.092, "end": 42.541}, {"i": 11, "cap": "Cold air can't hold as much water, so it turns into **little drops,** right there.", "start": 43.241, "end": 47.475}, {"i": 12, "cap": "Like breath **fogging up** a cold window.", "start": 48.175, "end": 50.15}, {"i": 13, "cap": "Doctors even have a name for it: **cold-induced rhinitis.** Some call it **skier's nose.**", "start": 50.85, "end": 55.988}, {"i": 14, "cap": "Somewhere between **half** and **nine out of ten** people get it.", "start": 56.688, "end": 59.648}, {"i": 15, "cap": "So that winter drip isn't a germ. It's your nose **working overtime.**", "start": 60.348, "end": 64.314}, {"i": 16, "cap": "Does your nose run in the cold? **Yes or no?**", "start": 65.014, "end": 67.363}, {"i": 17, "cap": "Follow for more of **how it really works.**", "start": 67.743, "end": 69.608}]};

diff --git a/jobs/snowflake/NOTES.md b/jobs/snowflake/NOTES.md
@@ -2,8 +2,18 @@
 
 - Template: **#2 Red paper-cut** (lemo-opuscar papercut-red; the engine files paper.js, motifs.js, rig.js and hud.js are copied from the demo into reels/styles/papercut/, Fraunces OFL font from jsDelivr). Why: a paper snowflake is folded and cut, the template's own fold-cut-unfold move, and the window-flower rosette is literally a snowflake. The previous H3 reels used Recipe card, cel-boil and particle flock.
 - Taken from the demo: red paper as the hero on a night-indigo paper ground (different paper families); every shape is cut, with hand-cut wobble, soft-light paper grain, a cut-edge rim and a tight paper shadow; yin-cut holes and slits (the honeycomb, the flake's core hexagon, the dotted hydrogen bonds); 12 fps stepped pieces with a one-step 1.15x pop; cut-out titles popping in letter by letter; the subtitle as a dark-red paper banner with sawtooth edges, swallowtails and gold flecks, dropping in on two steps; the folded stack and scissors; gold foil kept for one late moment (the "diary" payoff).
+- **Demo elements copied after the storyboard notes** (compared with the demo poster and style frame):
+  1. layered paper depth: night-indigo paper ground, two sawtooth-crest hill layers (#1f2a55, #29356e), a village row, a front snow layer; every piece casts a tight paper shadow on the one below;
+  2. the village row from the demo's town: houses with tiled roofs cut as sawtooth rows, inset double-outline walls, doors and windows cut out, warm-lit windows with tiny red rosettes, and pines; the lit windows change from scene to scene;
+  3. snow paper with crescent "smile" cuts, as on the demo's snowfield;
+  4. paper fibre texture at full strength (the demo's soft-light paperGrain with fibres) on every piece;
+  5. cut-out negative space: the yin-cut honeycomb, the flake's hexagon core and dot cuts, roof tiles, window and door holes;
+  6. inset contours (the demo's double outline) on the wide red pieces: molecules, the honeycomb disc, the mitten, walls, snow;
+  7. parallax: the far hills, mid hills, village, crescents and three depths of paper flakes all pan at different rates (0.3 / 0.55 / 0.7 / 1.0 / flakes 0.45-1.2), so something moves in every frame;
+  8. kept from before: 12 fps stepped pieces with the one-step 1.15x pop, letter-by-letter cut titles, the swallowtail banner subtitle with gold flecks, the folded stack and scissors, gold foil saved for the "diary" payoff.
+- Hook accuracy: "Never five. Never eight." over-claimed (Libbrecht notes rare three-fold crystals). The line is now "Every snowflake has six arms. Almost always six.", with two more six-armed flakes popping in and no crossed-out five- or eight-armed flakes.
 - New for the topic: a procedural six-fold snowflake (spine, side branches, tip; one arm rotated n times), which grows from the prism in the "branches sprout" scene; cut-paper water molecules; the paper thermometer strip; cloud pieces; a paper mitten.
-- Length 78.8 s; af_heart 0.97; music crayon 88 bpm at music_gain 0.7; fx_gain 0.5.
+- Length 78.4 s; af_heart 0.97; music crayon 88 bpm at music_gain 0.7; fx_gain 0.5.
 - Code: reels/t_snowflake.js, t_snowflake.html, specs/snowflake.json, ev_snowflake.json, tl_snowflake.js, reels/styles/papercut/ (demo engine + all.js re-export).
 - Batch N layout: banner bottom at y 1355 inside x 70-890; titles at y 250-460; content inside y 250-1130; badge strip y 1366-1440 free.
 - Loop ending: in the last 0.5 s the frame-0 image (the big red flake under "SIX ARMS.") dissolves in at most 40%.
@@ -35,8 +45,8 @@ QA snowflake: PASS   (/home/user/reel-render/jobs/snowflake/snowflake.mp4, 78.8 
 
 ## GROWTH checklist
 - [x] Topic is a searched question; demand signal noted
-- [x] Hook passes HOOKS.md (9-word first line; frame 0 a big red flake turning on 12 fps steps with paper snow falling; "But" at 4.3 s; search question spoken at 4-8 s)
-- [x] 66-86 s (78.8 s); ends on the exact closing line
+- [x] Hook passes HOOKS.md (9-word first line, "Every snowflake has six arms. Almost always six."; frame 0 a big red flake turning on 12 fps steps with paper snow falling; "But" at 4.3 s; search question spoken at 4-8 s)
+- [x] 66-86 s (78.4 s); ends on the exact closing line
 - [x] One-word-answer question before the closing line ("Ever caught one on your mitten? Yes or no?")
 - [x] End card: the standard main line + "A new 'wait, really?' every day." + @howitreallyworkstudio
 - [x] Loop ending (frame-0 image dissolves in, max 40%, in the last 0.5 s)
